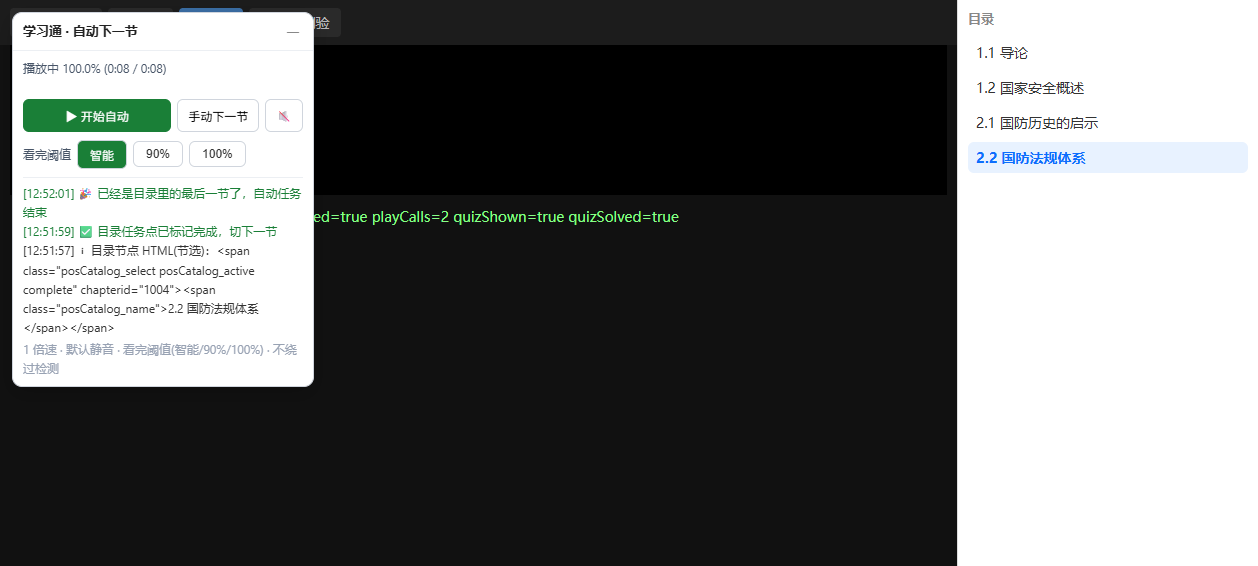
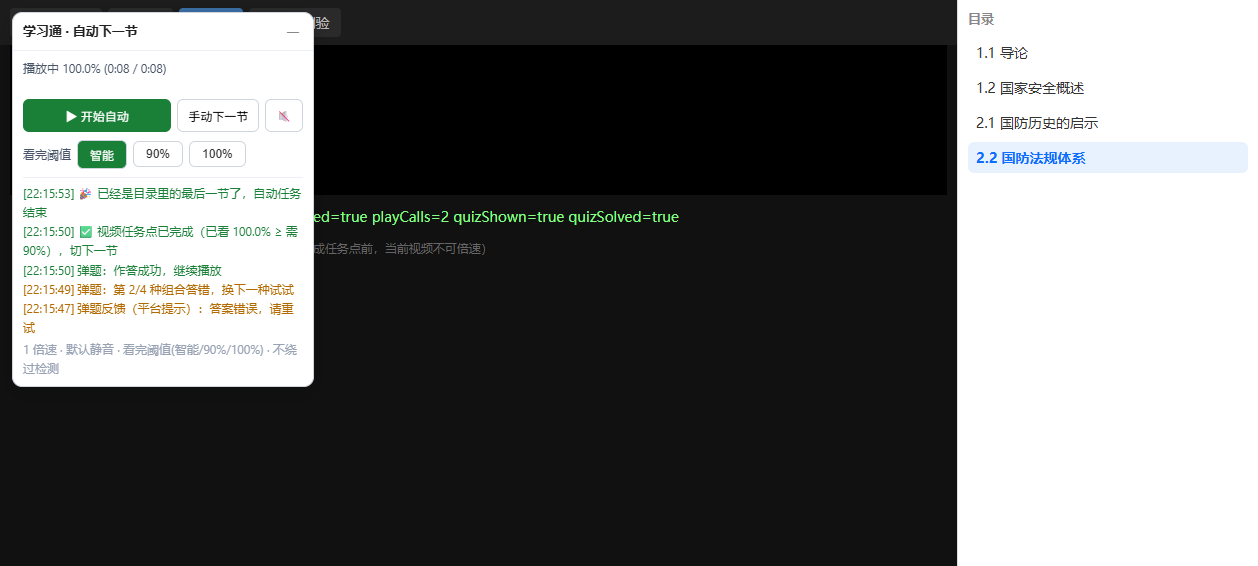
v1.3.12 智能模式改为读取视频任务点完成条件（观看时长≥总时长X%），不再等整节目录清零

Changed region(s): [[0.0, 0.3905, 0.248, 0.6007], [0.248, 0.4205, 0.403, 0.4505], [0.031, 0.3304, 0.062, 0.3604]]

diff --git a/chaoxing-auto-next.user.js b/chaoxing-auto-next.user.js
@@ -1,7 +1,7 @@
 // ==UserScript==
 // @name         超星学习通 · 自动播放 + 播完自动下一节
 // @namespace    workbuddy.chaoxing.autonext
-// @version      1.3.11
+// @version      1.3.12
 // @description  自动播放当前章节的视频；播放完成后自动点击右侧目录的下一节并继续播放。不加速、不绕过平台的防挂机检测（视频内弹出的单选/多选题会自动尝试作答，多选暴力枚举组合）。
 // @author       WorkBuddy
 // @match        *://*.chaoxing.com/mycourse/studentstudy*
@@ -16,10 +16,11 @@
  * 本脚本只做两件"免手动操作"的事：
  *   1) 进入某节后，自动点一下播放键（你本来也要点的）；
  *   2) 看完阈值三种模式（面板可切换，默认"智能"）：
- *        · 智能（默认）：视频播到结尾后，轮询右侧目录，等本节的"任务点"被平台标记为「完成」才自动点下一节
- *          （最多等 20 秒，超时兜底切走，避免卡死）。能自动适配"要求全部看完"的视频。
- *        · 90%：进度 ≥ 90% 直接切下一节（不等任务点完成；"要求全部看完"的视频可能判未完成）。
- *        · 100%：视频必须播到结尾才切（满足"要求全部看完"，但不等平台确认）。
+ *        · 智能（默认）：从视频旁的「任务点」面板读取本视频的完成条件（如"观看时长需 ≥ 总时长的 90%"），
+ *          看够这个比例就切下一节——自动适配 90% 与"要求全部看完"(≈100%) 两类视频。
+ *          注意：它只判断"本视频"看没看够，不等整节目录里其它任务点（如考核）完成（那一栏看视频永远清不了零）。
+ *        · 90%：进度 ≥ 90% 直接切下一节。
+ *        · 100%：视频必须播到结尾才切。
  * 视频仍然按 1 倍速、在前台、真实播放完整时长，不改学习记录。
  * 默认【静音】自动播放（浏览器普遍拦截"带声音的自动播放"，静音才稳；面板右侧 🔇/🔊 可一键切回有声）。
  *
@@ -59,8 +60,7 @@
   const CFG = {
     POLL_MS: 1500,        // 轮询间隔（毫秒）
     // 看完阈值改由运行时变量 finishMode 控制（'smart' / 'ratio90' / 'ratio100'），见下方 let finishMode
-    TASK_DONE_MAXWAIT_MS: 20000, // 视频播到结尾后，最多等多久等右侧目录任务点标记"完成"再跳；超时仍没确认就按安全兜底切走（避免卡死）
-    SWITCH_DELAY_MS: 2500, // 确认任务点完成后，再等这么久让平台落库，然后切下一节
+    SWITCH_DELAY_MS: 2500, // 达到看完阈值后，再等这么久让平台落库/上报，然后切下一节
     AUTOSTART: false,     // 打开页面是否自动开始
     MUTED: true,          // 默认静音播放（浏览器普遍拦截"带声音的自动播放"，静音才稳；面板可一键切回有声）
     MULTI_CHOICE: true,   // 是否自动答多选题（暴力枚举组合；关闭则多选题停下等手动）
@@ -74,9 +74,9 @@
    * ================================================================ */
   let running = CFG.AUTOSTART;   // 总开关
   let switching = false;         // 正在切章节，避免重复触发
-  let completing = false;        // 已播到结尾、正在等右侧目录任务点标记"完成"
-  let completingSince = 0;       // 进入 completing 的时间
-  let finishMode = 'smart';      // 看完阈值模式：'smart' 智能（播到结尾等任务点完成）/ 'ratio90'（90% 直接切）/ 'ratio100'（100% 直接切）
+  let videoTaskThreshold = null;     // 智能模式：从「任务点」面板读到的本视频完成阈值（如 0.90）；null=还没读到
+  let videoTaskThresholdTries = 0;   // 已尝试读取阈值的次数（封顶后按 0.999 兜底，避免反复搜）
+  let finishMode = 'smart';      // 看完阈值模式：'smart' 智能（读视频完成阈值）/ 'ratio90'（90% 直接切）/ 'ratio100'（100% 直接切）
   let lastKey = '';              // 当前已接管的视频标识
   let lastTabTryAt = 0;          // 上次尝试点「视频」标签的时间
   let tabMissLogged = false;     // 「本节没有视频标签」只提醒一次
@@ -564,37 +564,33 @@
     return s;
   }
 
-  /* 判断"当前正在播放的这一节"在右侧目录里的任务点是否已标记为完成。
-     超星完成任务点后，目录节点通常会：① 节点或其图标加上 completed/finish/over 之类 class；② 出现 ✓/✔ 对勾。
-     用多模式兜底检测；若你的超星版本 class 不同（脚本日志里会打印当前节点 class），把那行发我即可校准。 */
-  function isActiveTaskDone() {
-    const nodes = catalogNodes();
-    const idx = activeIndex(nodes);
-    if (idx < 0) return false;
-    const node = nodes[idx];
-    const cls = nodeClasses(node);
-    /* ① 超星真实信号（最权威）：目录节点内隐藏字段 jobUnfinishCount 表示"本节未完成任务点数"。
-       value="0"（或该字段不存在）视为本节任务点已全部完成；value>0 表示还有未完成的，明确不算完成。
-       例：未完成时 <input type="hidden" value="1" class="jobUnfinishCount"> 且文本"1个待完成任务点"；
-           完成时 value="0" 且文本"0个待完成任务点"。 */
-    const unfinish = (node.querySelector && node.querySelector('input.jobUnfinishCount')) || null;
-    if (unfinish) {
-      const v = (unfinish.value || '').trim();
-      if (v === '0') return true;                                  // 全部完成
-      if (v !== '' && parseInt(v, 10) > 0) return false;            // 明确还有未完成的 → 直接判定未完成（不靠猜）
+  /* 从视频旁的「任务点」面板读取本视频的完成条件，返回阈值比例（如 0.90）；读不到返回 null。
+     面板文案形如："任务点 / 完成条件 / 观看时长需 ≥ 总时长的 90%"。
+     用文本匹配（不依赖具体 class 名），并取"文本最短"的那个元素（最贴近面板本身，避开外层容器）。 */
+  function readVideoTaskThreshold() {
+    const docs = collectDocs();
+    let best = null;
+    for (let i = 0; i < docs.length; i++) {
+      let els;
+      try { els = docs[i].querySelectorAll('*'); } catch (e) { continue; }
+      for (let j = 0; j < els.length; j++) {
+        const t = els[j].textContent || '';
+        if (t.indexOf('观看时长') === -1 && t.indexOf('完成条件') === -1) continue;
+        const m = t.match(/总时长[^0-9]{0,8}(\d{1,3})\s*%/);
+        if (m) {
+          const pct = parseInt(m[1], 10);
+          if (pct >= 1 && pct <= 100 && (!best || t.length < best.len)) {
+            best = { pct: pct / 100, len: t.length };
+          }
+        }
+      }
     }
-    /* ② 兜底：节点/后代出现完成态 class 或对勾（兼容部分超星版本 / 旧版 mock） */
-    if (/(?:^|\s)(?:complete|completed|finish|finished|over|done|learned|studied|gray|finishtask|taskdone|pass|answered)(?:$|\s)/i.test(cls)) return true;
-    if (/[✓✔√]/.test(node.textContent || '')) return true;
-    /* ③ 文本信号：出现"0个待完成任务点"也视为完成 */
-    if (/0个待完成任务点/.test(node.textContent || '')) return true;
-    return false;
+    return best ? best.pct : null;
   }
 
   /* 执行"切下一节"：先等 SWITCH_DELAY_MS 让平台落库，再 goNext */
   function doSwitch() {
     switching = true;
-    completing = false;
     setTimeout(function () {
       const ok = goNext();
       lastKey = '';
@@ -602,30 +598,6 @@
       lastTabTryAt = 0;
       setTimeout(function () { switching = false; }, ok ? 4000 : 1200);
     }, CFG.SWITCH_DELAY_MS);
-  }
-
-  /* 已播到结尾：轮询右侧目录任务点是否"完成"，完成才切；超时兜底切走（不卡死）。
-     若中途切到非智能模式，则不再等待、直接切。 */
-  function handleCompleting() {
-    if (finishMode !== 'smart') { doSwitch(); return; }
-    if (isActiveTaskDone()) {
-      log('✅ 目录任务点已标记完成，切下一节', 'ok');
-      doSwitch();
-      return;
-    }
-    if (Date.now() - completingSince > CFG.TASK_DONE_MAXWAIT_MS) {
-      /* 兜底切换前，再打一次当前目录节点状态，便于校准：若你这版超星完成任务点的"标记"长这样，把这段发我即可 */
-      const ns = catalogNodes();
-      const ai = activeIndex(ns);
-      if (ai >= 0) {
-        log('ℹ 超时兜底时节点 class：[' + (ns[ai].className || '') + ']，HTML(节选)：' +
-            ((ns[ai].outerHTML || '').replace(/\s+/g, ' ').trim().slice(0, 400)), 'warn');
-      }
-      log('⚠ 等 ' + (CFG.TASK_DONE_MAXWAIT_MS / 1000) + ' 秒仍未能从目录确认任务点完成（可能选择器不匹配你的超星版本），按安全兜底切下一节', 'warn');
-      doSwitch();
-      return;
-    }
-    setStatus('已播到结尾，等待目录任务点标记"完成"后切下一节…');
   }
 
   /* ================================================================
@@ -643,8 +615,6 @@
       topDoc().documentElement.appendChild(panel);
     }
     if (!running || switching) return;
-    /* 已播到结尾、正在等目录任务点标记"完成"：交给 handleCompleting 轮询，不再走下面的播放入口 */
-    if (completing) { handleCompleting(); return; }
 
     /* 视频内弹题优先处理：单选/多选自动作答（多选枚举组合）；无弹题则往下走 */
     if (findQuiz()) {
@@ -676,7 +646,8 @@
     /* 发现新视频：接管并播放 */
     if (key !== lastKey) {
       lastKey = key;
-      completing = false;
+      videoTaskThreshold = null;        // 新视频：清掉上一个视频缓存的任务点阈值
+      videoTaskThresholdTries = 0;
       tabMissLogged = false;
       setStatus('已接管新视频，准备播放…');
       log('🎬 检测到视频：' + shortName(key) + '（时长 ' + fmtTime(v.duration) + '）');
@@ -701,35 +672,40 @@
     setStatus('播放中 ' + (ratio * 100).toFixed(1) + '%  (' +
               fmtTime(v.currentTime) + ' / ' + fmtTime(v.duration) + ')');
 
-    /* 切换阈值：智能 / 100% 模式都需播到结尾(≈100%)，90% 模式为 0.90；视频 ended 直接算达标 */
-    const switchThreshold = (finishMode === 'ratio90') ? 0.90 : 0.999;
+    /* 切换阈值：
+       90% 模式 = 0.90；100% 模式 = 0.999；
+       智能 模式 = 从视频旁「任务点」面板读本视频的完成条件（如"观看时长需 ≥ 总时长的 90%"），
+                读不到就保守按 0.999（≈播到结尾）。视频 ended 一律算达标。 */
+    let switchThreshold;
+    if (finishMode === 'ratio90') {
+      switchThreshold = 0.90;
+    } else if (finishMode === 'ratio100') {
+      switchThreshold = 0.999;
+    } else {
+      /* 智能：懒读取并缓存本视频的任务点完成阈值 */
+      if (videoTaskThreshold == null) {
+        videoTaskThreshold = readVideoTaskThreshold();
+        videoTaskThresholdTries += 1;
+        if (videoTaskThreshold == null && videoTaskThresholdTries >= 30) {
+          videoTaskThreshold = 0.999; /* 读不到就按接近结尾兜底，不再反复搜 */
+        }
+      }
+      switchThreshold = (videoTaskThreshold != null) ? videoTaskThreshold : 0.999;
+    }
     const reached = v.ended || ratio >= switchThreshold;
 
     if (reached) {
       const pct = (v.ended ? 100 : ratio * 100).toFixed(1);
+      const need = Math.round(switchThreshold * 100);
       if (finishMode === 'smart') {
-        /* 智能模式：进入"等目录任务点标记完成"流程（handleCompleting 轮询确认才切，最多等 20 秒兜底） */
-        if (!completing) {
-          completing = true;
-          completingSince = Date.now();
-          log('✅ 本节已播到结尾（' + pct + '%），开始等待右侧目录任务点标记"完成"…', 'ok');
-          /* 打印当前目录节点的 class + HTML 节选，便于校准"完成态"选择器（若检测不生效，把这几行发我即可） */
-          const ns = catalogNodes();
-          const ai = activeIndex(ns);
-          if (ai >= 0) {
-            const nd = ns[ai];
-            log('ℹ 目录节点 class：[' + (nd.className || '') + ']，文本前 20 字：' +
-                (nd.textContent || '').replace(/\s+/g, ' ').trim().slice(0, 20), 'info');
-            log('ℹ 目录节点 HTML(节选)：' + ((nd.outerHTML || '').replace(/\s+/g, ' ').trim().slice(0, 400)), 'info');
-          }
-        }
-        return; /* 交给 handleCompleting 轮询 */
+        /* 智能：本视频已看够平台要求的时长（如 ≥90%）即视为"本视频任务点完成"，直接切下一节。
+           不再等"整节目录未完成数清零"——那一栏还含考核等其它任务点，只看视频永远清不了零。 */
+        log('✅ 视频任务点已完成（已看 ' + pct + '% ≥ 需 ' + need + '%），切下一节', 'ok');
       } else {
-        /* 90% / 100% 模式：直接切下一节（不等任务点完成） */
         log('✅ 本节已达看完阈值（' + pct + '%），直接切下一节', 'ok');
-        doSwitch();
-        return;
       }
+      doSwitch();
+      return;
     }
   }
 
@@ -848,7 +824,8 @@
       if (running) {
         lastKey = '';
         switching = false;
-        completing = false;
+        videoTaskThreshold = null;
+        videoTaskThresholdTries = 0;
         tabMissLogged = false;
         lastTabTryAt = 0;
         statusText = '已启动，正在寻找视频…';
@@ -878,12 +855,14 @@
     });
 
     /* 看完阈值：智能 / 90% / 100% 三选一（互斥）
-       智能 = 播到结尾后，等右侧目录任务点标记"完成"才切（最稳，自动适配"要求全部看完"的视频）
-       90%  = 进度≥90% 直接切下一节（不等任务点完成）
-       100% = 视频必须播到结尾才切（满足"要求全部看完"，但不等平台确认） */
+       智能 = 读视频旁「任务点」面板的完成条件（如"观看时长≥总时长90%"），看够就切（自动适配 90%/100% 视频；只看本视频任务点，不等整节里的考核等其它任务点）
+       90%  = 进度≥90% 直接切下一节
+       100% = 视频必须播到结尾才切 */
     panel.querySelector('#cx-ratio-smart').addEventListener('click', function () {
       finishMode = 'smart';
-      log('看完阈值已设为「智能」：播到结尾后，等目录任务点标记完成才切下一节', 'ok');
+      videoTaskThreshold = null;      // 切回智能时重新读阈值
+      videoTaskThresholdTries = 0;
+      log('看完阈值已设为「智能」：读视频完成条件（如≥90%），看够就切下一节', 'ok');
       renderPanel();
     });
     panel.querySelector('#cx-ratio-90').addEventListener('click', function () {

diff --git a/mock/layer2.html b/mock/layer2.html
@@ -31,6 +31,10 @@
   <div class="pane" id="pane-video" style="display:none">
     <video id="v"></video>
     <div id="hud">--</div>
+    <!-- 模拟超星「任务点」完成条件面板：智能模式从这里读本视频的完成阈值（如 ≥90%） -->
+    <div id="taskpoint-panel" style="padding:6px 12px;color:#666;font-size:12px;">
+      任务点 <span style="color:#f5a623;">●</span> 完成条件 观看时长需 ≥ 总时长的 90%（未完成任务点前，当前视频不可倍速）
+    </div>
   </div>
   <div class="pane" id="pane-quiz" style="display:none">章节测验内容</div>
 

diff --git a/安装与使用说明.md b/安装与使用说明.md
@@ -48,7 +48,7 @@
 4. 之后：自动点播放 → 视频真实播完 → 自动点右侧目录的下一节 → 继续。你只需要让这个标签页保持在前台。
 5. 想停就点 **⏸ 暂停自动**；想手动跳一节就点 **手动下一节**；面板左上角 **—** 可折叠。面板右侧的 **🔇 / 🔊** 按钮是静音开关：默认静音（避免浏览器拦截带声自动播放），想听声音就点一下切回🔊，再点回🔇。
 6. 面板里有一组 **「看完阈值」** 按钮：**智能** / **90%** / **100%**，可随时切换（互斥，当前选中的亮绿）——
-   - **智能**（默认）：视频播到结尾后，轮询右侧目录，等本节"任务点"被平台标记为「完成」才切下一节（最多等 20 秒，超时兜底切走，避免卡死）。最稳，能自动适配"要求全部看完"的视频；
+   - **智能**（默认）：**只判断"本视频"看没看够**，不等整节目录清零。脚本从视频旁的「任务点」面板读取本视频的完成条件（如"观看时长需 ≥ 总时长的 90%"）作阈值，进度达到即切下一节，能自动适配"要求看 90%"或"看 100%"的视频；读不到阈值时按"看满 100%（`ended` 才切）"兜底。最稳，且不会因为"本节还有考核没做"而卡住；
    - **90%**：视频进度到 90% 就**直接**切下一节，省时间，但"要求全部看完"的视频任务点可能仍判未完成；
    - **100%**：必须等视频真正播到结尾（`ended`）才**直接**切，满足"要求全部看完"，但不等平台确认（万一平台 `ended` 事件没触发会多等一会儿，此时手动点「手动下一节」即可）。
 
@@ -61,7 +61,7 @@
 | 功能              | 行为                                 |
 | --------------- | ---------------------------------- |
 | ✅ 自动播放          | 进入某节后自动点击播放键（你本来也要点的）              |
-| ✅ 播完自动下一节       | 看完阈值可选 **智能 / 90% / 100%**（默认智能）：**智能**模式下视频播到结尾后，轮询右侧目录，等本节"任务点"被平台标记为「完成」才切（最多等 20 秒，超时兜底切走，避免卡死），能自动适配"要求全部看完"；**90%/100%** 模式下视频达到对应阈值（或 `ended`）后**直接**切下一节，不等待平台确认。100% 模式满足"要求全部看完" |
+| ✅ 播完自动下一节       | 看完阈值可选 **智能 / 90% / 100%**（默认智能）：**智能**模式下脚本从视频旁的「任务点」面板读取本视频的完成条件（如"观看时长需 ≥ 总时长的 90%"）作阈值，进度达到即切下一节，自动适配"要求看 90%"或"看 100%"，且不会因"本节还有考核没做"而卡住（读不到阈值时按"看满 100%"兜底）；**90%/100%** 模式下视频达到对应阈值（或 `ended`）后**直接**切下一节，不等待平台确认。100% 模式满足"要求全部看完" |
 | ✅ 弹题自动作答（单选+多选） | 视频中途弹出**单选/多选题**时自动作答：单选逐个试选项、多选暴力枚举所有组合逐个试，答错或提交后 2.7 秒无反馈就换下一组重提交，直到答对（所有组合都试完仍无确定反馈才停下让你手动） |
 | ✅ 默认静音自动播放      | 浏览器普遍拦截"带声音的自动播放"，所以默认**静音**播放最稳；面板右侧 🔇/🔊 可一键切回有声 |
 | ✅ 遇到非视频节点       | 当前是音频/文档/测验且没找到视频时，会停下提醒你，不会替你跳过   |
@@ -78,7 +78,7 @@
 - **不要一次刷太猛**。连着刷几十节容易触发平台风控。建议分批、间隔着来。
 - **遇到章节测验/作业，脚本会停下来**等你自己做；做完再点"手动下一节"或等它继续。
 - 超星偶尔改版（前端结构变化），目录/视频选择器可能失效。若面板报"没找到右侧课程目录"，多半是改版了，告诉我，我再更新选择器。
-- **关于"检测任务点完成再跳"**：这是面板上 **智能** 模式的行为——视频播到结尾后，脚本等右侧目录里本节的"任务点"被平台标记为完成后才切下一节（不再只靠猜百分比），能自动适配"要求全部看完"的视频。**判定信号已校准**：优先读取目录节点内隐藏字段 `jobUnfinishCount`（超星官方的"未完成任务点数"）——`value="0"` 即本节任务点全部完成、可切；`value>0`（如"1个待完成任务点"）仍算未完成、继续等。该字段与文本（`0个待完成任务点`）都不满足时才走 20 秒兜底。若你的超星版本结构再变，日志仍会自动打印「目录节点 HTML(节选)」供校准。若你更想要"到点就跳、不等确认"，切到 **90%** 或 **100%** 模式即可。
+- **关于"智能"模式怎么判断"看完了"**：这是面板上 **智能** 模式的判定逻辑——它**只判断"本视频"看没看够**，不等整节目录清零。具体做法：脚本从视频旁的 **「任务点」面板** 里读取本视频自己的完成条件（形如"完成条件 观看时长需 ≥ 总时长的 90%"），解析出那个百分比（如 90%）作为阈值；视频播放进度 `ratio` 达到该阈值（或 `ended`）就切下一节。这样不论超星要求"看 90%"还是"看 100%"，智能模式都能自动适配，**且不会卡在"本节还有考核没做所以目录任务点数不为 0"上**——因为考核是另一类任务点，跟"本视频看够没"无关。若面板里读不到完成条件（超星改版/面板结构变了），会自动重试读取，重试 30 次仍读不到就按"看 100%（ended 才切）"兜底，并在日志打印提示。**注意**：智能模式只接管"视频看够就跳"，章节里的考核/作业仍要你手动做；若你更想要"进度到点就跳、不等确认"，切到 **90%** 或 **100%** 模式即可。
 
 ---
 
@@ -110,6 +110,7 @@
 
 ## 七、版本更新
 
+- **v1.3.12**（2026-10-12）：**智能模式再次校准——改读视频自己的「任务点」完成条件**。经你真实超星截图指出：右侧目录的 `jobUnfinishCount`（整节未完成任务点数）包含【考核】等其它任务点，**只看视频永远不会让它归零**，旧逻辑会卡死。改为：智能模式从视频旁的「任务点」面板解析本视频的完成条件（如"观看时长需 ≥ 总时长的 90%"）作为阈值，进度达到即切下一节，只判断"本视频看够没"。读不到时按"看满 100%"兜底并打印提示。删除了已废弃的整节目录完成等待逻辑，自测通过（4 节均「已看 100% ≥ 需 90%，切下一节」）。
 - **v1.3.11**（2026-10-12）：**校准智能模式的"任务点完成"判定**——用你真实超星目录 DOM 校准：完成态不再靠猜 class，改为优先读取节点内隐藏字段 `jobUnfinishCount`（超星官方的"未完成任务点数"），`value="0"` 即本节完成可切、`value>0` 继续等；并保留 class/对勾/`0个待完成任务点` 作为兜底。修复了此前因超星版本无 `complete` 类而永远检测不到、每节都退化为 20 秒兜底的问题（已用真实 HTML 验证 value=1→未完成、value=0→完成）。
 - **v1.3.10**（2026-10-12）：增强智能模式诊断日志——进入"等待任务点完成"时自动打印当前目录节点的 `class` 与 `HTML(节选)`，20 秒兜底切换前再打印一次节点状态。目的是让你**无需手动 F12**，跑一次就能把校准"完成态选择器"所需的真实 DOM 发我。切换逻辑不变（已验证路径不受影响）。
 - **v1.3.9**（2026-10-12）：「看完阈值」改为三选一——**智能**（默认，播到结尾后等右侧目录任务点标记「完成」才切，最多等 20 秒兜底）/ **90%**（进度≥90% 直接切）/ **100%**（播到结尾直接切）。修复"视频播完且已进入 paused 态"时轮询恰好漏触发导致卡住的边界问题。
